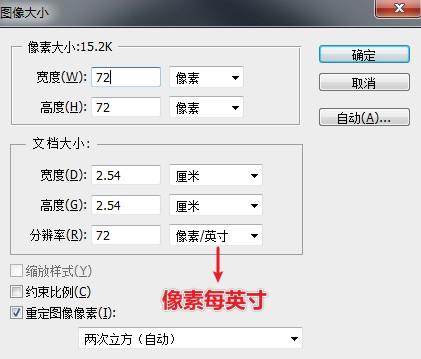
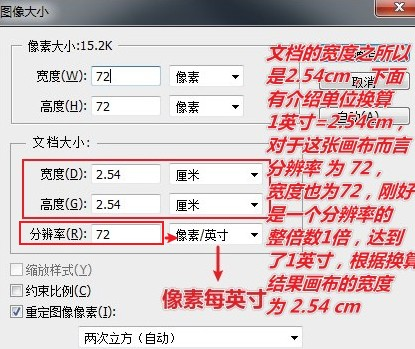
update

diff --git a/_posts/2023-10-15-media_query.md b/_posts/2023-10-15-media_query.md
@@ -185,12 +185,21 @@ px(pixed)位图的组成的最小单位。
 
 **打印分辨率**：dpi（点每英寸），打印设备使用的单位，媒介查询的 ``print`` 媒体类型。
 
-> + 平常所说的屏显设备的分辨率 1920 * 1080 讲道理应该不属于分辨率范畴，率这个词大家熟知的 e.g. 速率是一种单位描述，不过平常习惯了说分辨率多少乘多少，也都能理解所表述的意思。
-+ 上图中，创建画布的时候，显示分辨率大小设置为 ``72``，图像大小为 ``72px``，这个时候画布刚刚好是一英寸，之所以显示 ``2.54cm`` 是因为 ``1``英寸 = ``2.54`` 厘米。
-+ 题外话，当我们需要打印一张 A4 纸大小的图片的时候，创建画板宽：``21cm`` 高 ``29.7cm``（印刷尺 ``A4`` 高度为  ``28.5cm`` )，这个时候显示分辨（``ppi``）会设置为``300``，因为最终要打印，打印机的打印分辨率``dpi``是``300``，如果显示分辨率设置的远小于打印分辨率(``dpi``)，会造成图片模糊，如下：<br />![03](/static/img/mediaQuery/03.jpg)
+> + 平常所说的屏显设备的分辨率 1920 * 1080 严格意义上讲，不属于分辨率范畴，率这个词大家熟知的 e.g. 速率、心率是一种（时间）单位的描述（1000转/分，80次/分），分辨率指的是1英尺所展示的像素点的个数，不过平常习惯了说分辨率多少乘多少，也都能理解所表述的意思（一个有趣的现象，win7 系统的时候，图片的分辨率描述还是严格意义上的值，到了 win10 就把分辨率的值使用宽高属性描述了，也就是大家口中常说的 xxx * xxx 的形式了）见下图：<br />![04](/static/img/mediaQuery/04.jpg)<br />
+**<font color=red>注：</font>**一般显示设备上图片的分辨率（严格意义上的分辨率）信息并不重要，重要的是像素也就是 xxx * xxx 的值才重要，e.g. 使用 a.jpg（96分辨率）的图片作为基础版本，使用其创建（借助 phothoshop 软件）一个分辨率 50 的 b.jpg 以及分辨率 200 的 c.jpg 这 3 个图片在显示设备上没有任何区别，如下图：<br />
+![05](/static/img/mediaQuery/05.jpg)<br />
+![07](/static/img/mediaQuery/07.jpg)<br />
+![06](/static/img/mediaQuery/06.jpg)<br />
+也就是说，图片的分辨率（严格意义的分辨率）在不涉及打印的前提下，不用太在意。
++ 题外话，当我们需要打印一张 A4 纸大小的图片的时候，创建画板宽：``210mm`` 高 ``297mm``（印刷尺 ``A4`` 高度为  ``285mm`` )，这个时候显示分辨（``ppi``）会设置为``300``，因为最终要打印，打印机的打印分辨率``dpi``是``300``，如果显示分辨率设置的远小于打印分辨率(``dpi``)，会造成图片模糊，如下：<br />![03](/static/img/mediaQuery/03.jpg)
+
 
 ## 单位
 1英寸 = 2.54厘米。
 1磅(pt) = 1/72英寸
+**<font color=red>1英寸(in) = 96像素(px)</font>**
+> + css 的单位有逻辑单位 px，也有物理度量单位 in、cm、mm等，对于显示设备专门设置了一个逻辑单位和实际物理单位之间的一个转换锚定值[^4]：1in = 96px，看起来挺不可思议的将逻辑单位与物理度量单位进行了转换定义，是的没有为什么这就是行业标准，这样就意味着虽然存在物理单位，但是我们在显示设备上没法通过物理单位 e.g.  ``font-size: 1in`` 定义出来一个实实在在高 ``1in`` 的字号，因为锚定的关系存在，这个字号实际上和 ``font-size: 96px`` 的使用逻辑单位的字是一样大的。<br />![08](/static/img/mediaQuery/08.jpg)<br />
++ 题外话：1in = 96px，20in = 1920px，所以只要是 1920 * xxx 的分辨率屏，20in 就能把屏幕铺满了。
 
-> + 在图像的显示分辨率为 72 的前提下，磅值和像素相等，其次在网页设计的时候，创建的画布大小为 1920 * 1080，分辨率为 72。
+
+[^4]: [https://developer.mozilla.org/zh-CN/docs/Web/CSS/length](https://developer.mozilla.org/zh-CN/docs/Web/CSS/length)
